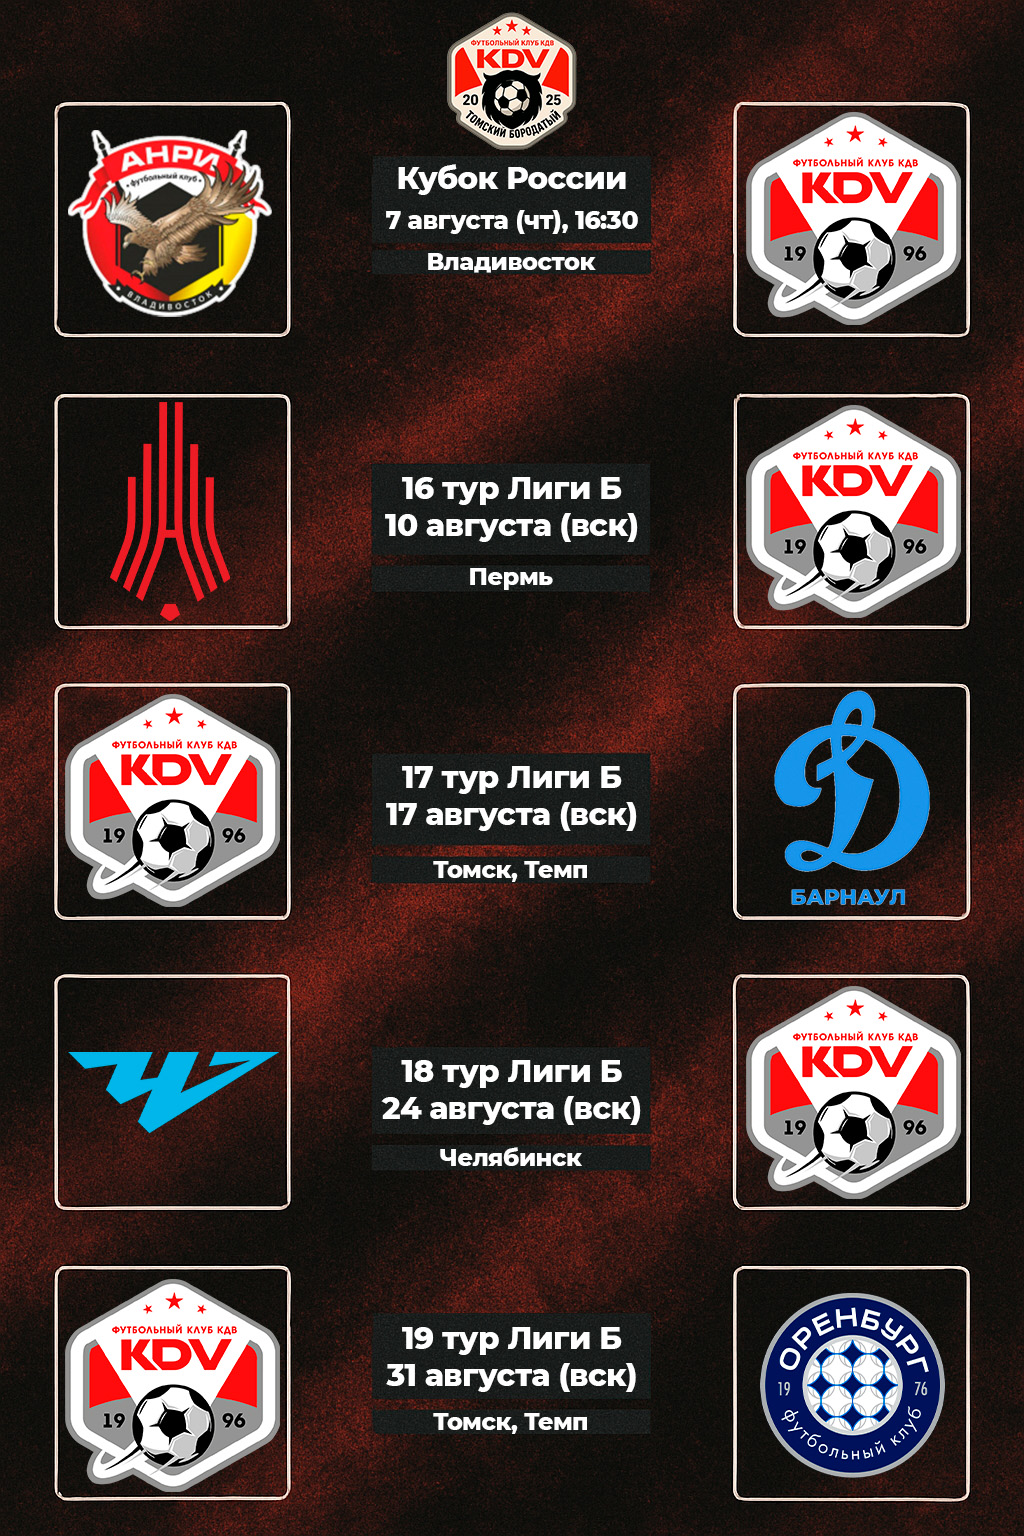
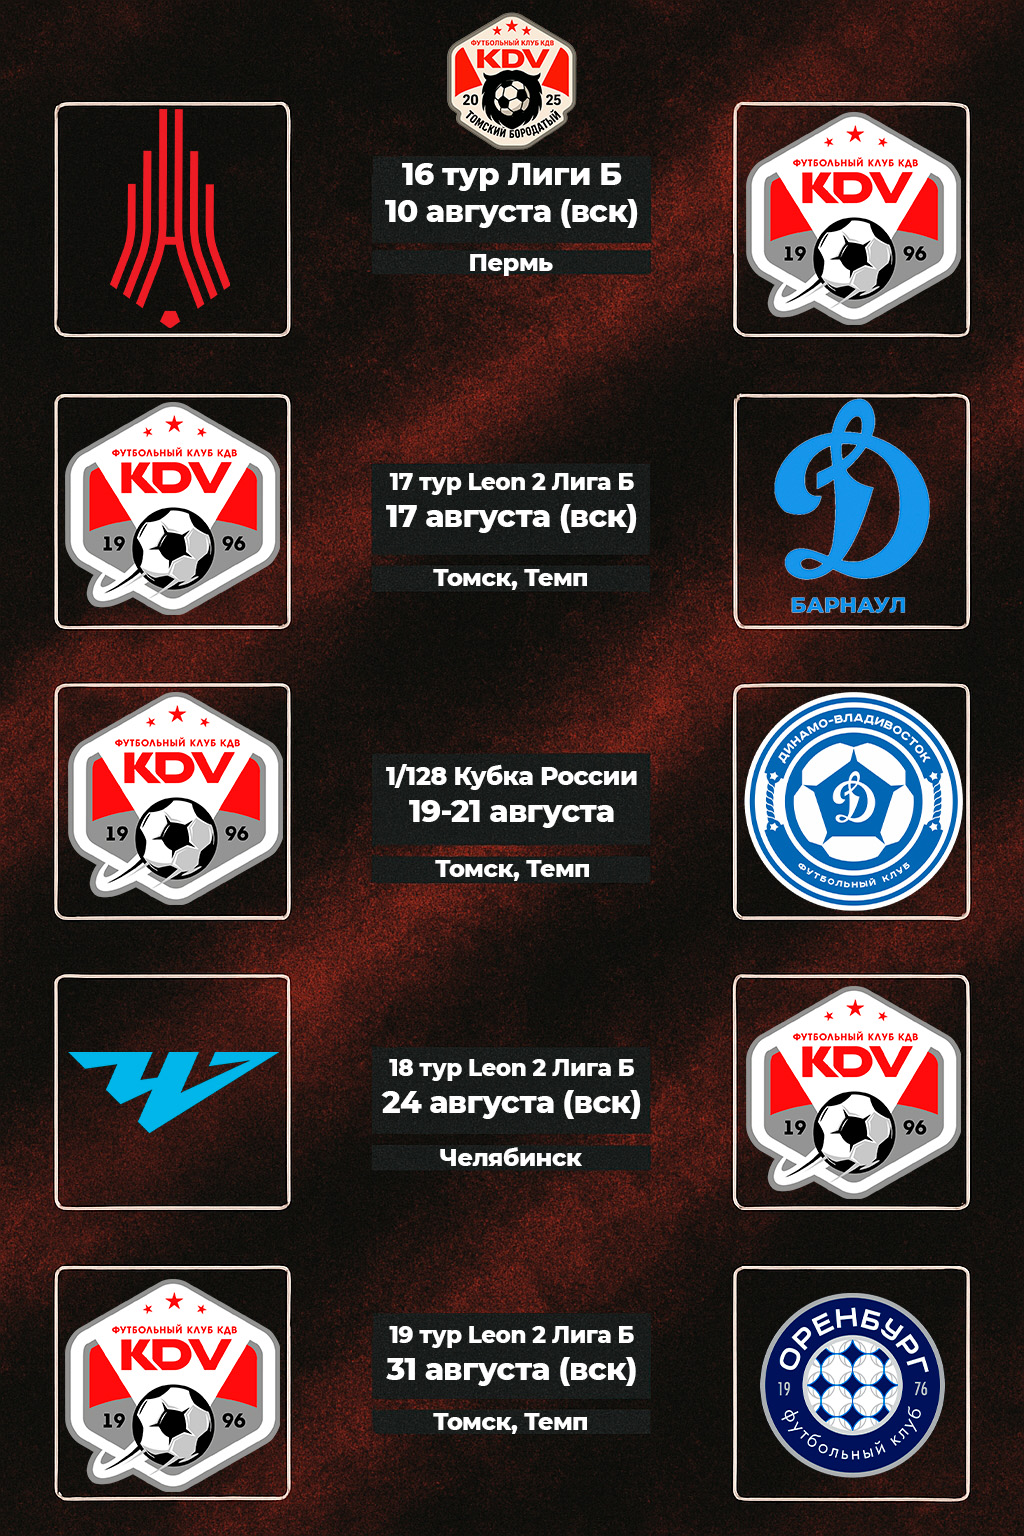
feat: новые матчи - новый код

diff --git a/bot_kdv.js b/bot_kdv.js
@@ -17,7 +17,7 @@ const __filename = fileURLToPath(import.meta.url);
 const __dirname = path.dirname(__filename);
 
 const nextMatch =
-  "✈ // 7 августа (чт) 16:30 тск \nАнри (Владивосток) - ФК КДВ \nКубок России \n@boroda_tomsk_youtube";
+  "✈ // 10 августа (вск) 16:30 тск \nАмкар (Пермь) - ФК КДВ \n16-ый тур Leon 2 Лига Б \n@boroda_tomsk_youtube";
 const textButtonNextMatch = "Ссылка на трансляцию";
 const urlNextMatch =
   "https://news.sportbox.ru/Vidy_sporta/Futbol/Russian_Cup/spbvideo_NI2227713_translation_Anri___KDV_FONBET_Kubok_Rossii_po_futbolu_sezona_2025_2026_gg";
@@ -33,7 +33,7 @@ function sendWelcome(chatId) {
       keyboard: [
         ["Перезапустить бота"],
         ["Инфо", "Список матчей"],
-        ["Актуальная таблица", "Ближайший матч (+ссылка)"],
+        ["Актуальная таблица", "Ближайший матч"],
       ],
       resize_keyboard: true,
       one_time_keyboard: false,
@@ -68,18 +68,22 @@ bot.on("message", (msg) => {
     });
   }
 
-  if (text === "Ближайший матч (+ссылка)") {
-    bot.sendMessage(chatId, nextMatch, {
-      reply_markup: {
-        inline_keyboard: [
-          [
-            {
-              text: textButtonNextMatch,
-              url: urlNextMatch,
-            },
-          ],
-        ],
-      },
-    });
+  if (text === "Ближайший матч") {
+    bot.sendMessage(
+      chatId,
+      nextMatch
+      //   , {
+      //   reply_markup: {
+      //     inline_keyboard: [
+      //       [
+      //         {
+      //           text: textButtonNextMatch,
+      //           url: urlNextMatch,
+      //         },
+      //       ],
+      //     ],
+      //   },
+      // }
+    );
   }
 });
